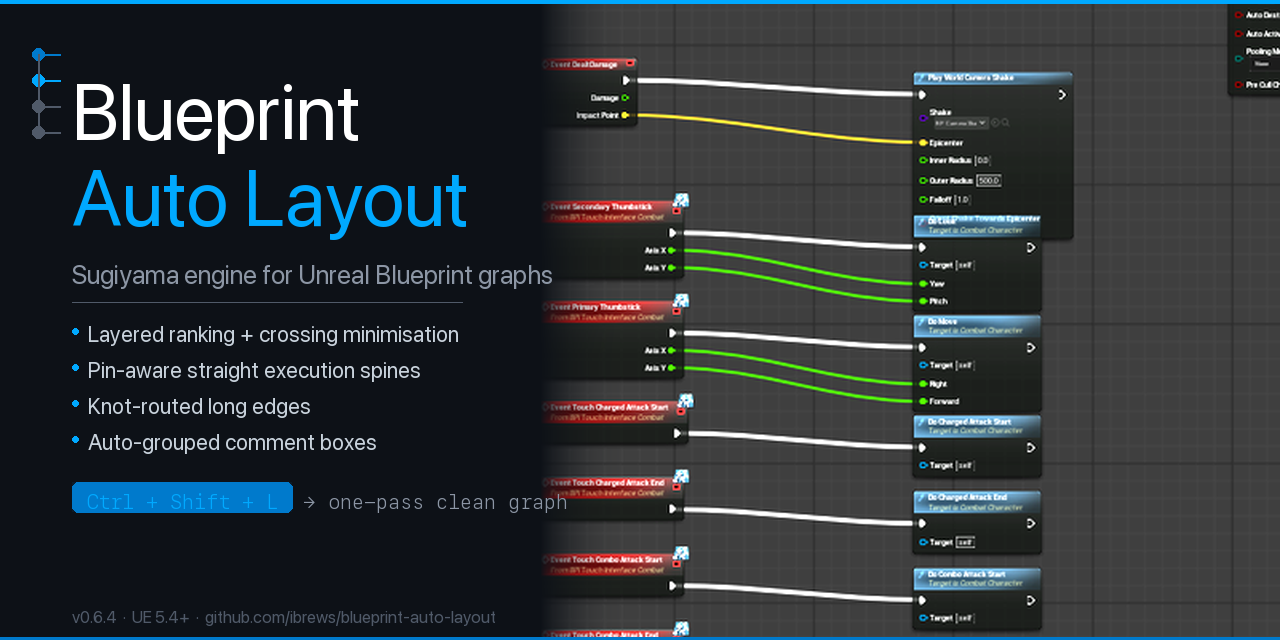
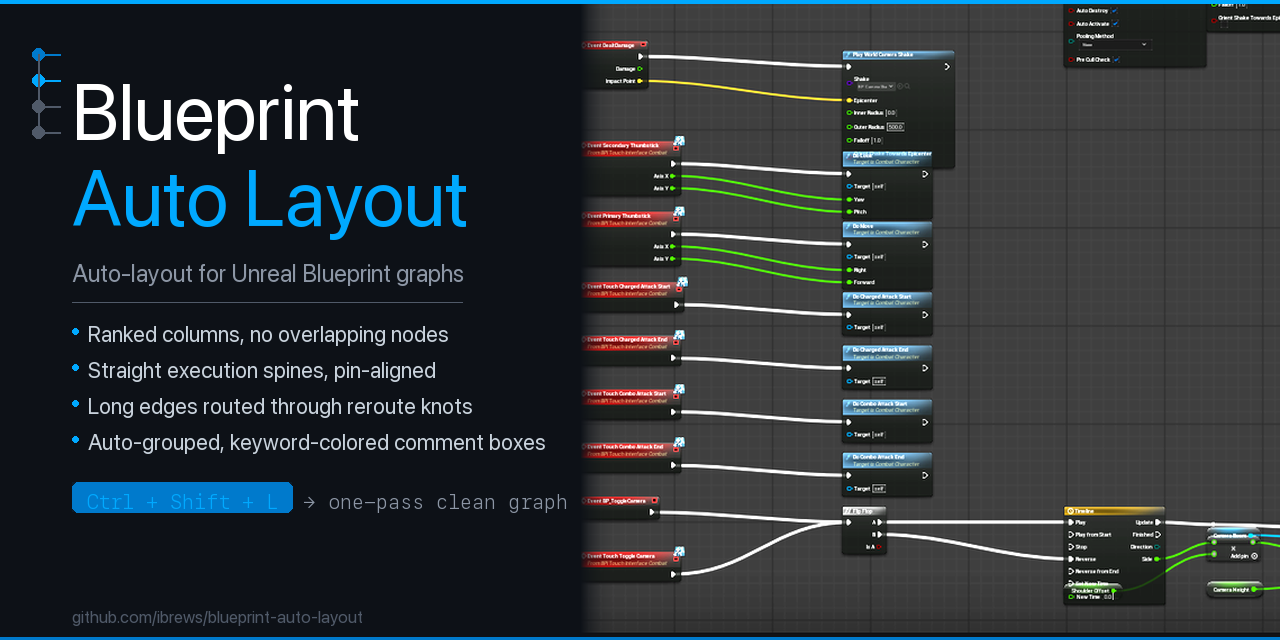
chore: update social card — fix crop, gradient, remove version

diff --git a/make_social_card.py b/make_social_card.py
@@ -43,27 +43,29 @@ after = src.crop((after_x + 40, 168, src_w - 8, src_h - 8))
 after = ImageEnhance.Brightness(after).enhance(1.5)
 after = ImageEnhance.Contrast(after).enhance(1.15)
 
-# Zoom in 1.9× on the densest node cluster (left ~55% width, lower 80% height)
+# crop_start=0 so the red event nodes at the left edge of "after" are included.
+# SEAM pushed to 580 so text can't reach the photo.
+# Short 40px fade so the red nodes emerge quickly past the seam.
 aw, ah = after.size
-focus = after.crop((0, int(ah * 0.12), int(aw * 0.58), ah))
+focus = after.crop((0, int(ah * 0.12), int(aw * 0.78), ah))
 
-# Scale the focus region to fill the right 740px × 640px panel
-panel_w, panel_h = 740, H
+SEAM    = 580               # solid dark covers 0–580; photo starts here
+panel_w = W - SEAM          # 700px
+panel_h = H
 scale = max(panel_w / focus.width, panel_h / focus.height)
 nw, nh = int(focus.width * scale), int(focus.height * scale)
 focus_r = focus.resize((nw, nh), Image.LANCZOS)
 after_crop = focus_r.crop((0, 0, panel_w, panel_h))
 
-card.paste(after_crop, (W - panel_w, 0))
+card.paste(after_crop, (SEAM, 0))
 
-# ── gradient vignette: short blend at the seam ───────────────────────────────
-SEAM = W - panel_w          # x=540
-FADE = 90                   # narrow fade width
+# ── gradient vignette: short 40px fade — red nodes clear it in ~35px ─────────
+FADE = 40
 grad = Image.new("RGBA", (FADE, H), (0, 0, 0, 0))
 gdraw = ImageDraw.Draw(grad)
 for x in range(FADE):
     t = 1.0 - (x / FADE)
-    alpha = int(255 * (t ** 2.2))   # sharper fade
+    alpha = int(255 * (t ** 2.5))   # steep fall-off: nearly clear by 25px
     r, g, b = BG
     gdraw.line([(x, 0), (x, H)], fill=(r, g, b, alpha))
 
@@ -94,7 +96,7 @@ LEFT = 72
 # Plugin name — big two-line treatment
 f_title_big  = load_font(FONT, 78)
 f_title_sub  = load_font(FONT, 78)
-f_tag        = load_font(FONT, 26)
+f_tag        = load_font(FONT, 24)
 f_feature    = load_font(FONT, 22)
 f_mono       = load_font(MONO, 20)
 f_version    = load_font(MONO, 18)
@@ -105,17 +107,17 @@ draw.text((LEFT, 64), "Blueprint", font=f_title_big, fill=WHITE)
 draw.text((LEFT, 150), "Auto Layout", font=f_title_sub, fill=ACCENT2)
 
 # Tagline
-draw.text((LEFT, 258), "Sugiyama engine for Unreal Blueprint graphs", font=f_tag, fill=GRAY)
+draw.text((LEFT, 258), "Auto-layout for Unreal Blueprint graphs", font=f_tag, fill=GRAY)
 
 # Separator line
 draw.line([(LEFT, 302), (LEFT + 390, 302)], fill=DIM, width=1)
 
 # Feature bullets
 features = [
-    ("Layered ranking + crossing minimisation",),
-    ("Pin-aware straight execution spines",),
-    ("Knot-routed long edges",),
-    ("Auto-grouped comment boxes",),
+    ("Ranked columns, no overlapping nodes",),
+    ("Straight execution spines, pin-aligned",),
+    ("Long edges routed through reroute knots",),
+    ("Auto-grouped, keyword-colored comment boxes",),
 ]
 fy = 320
 for (feat,) in features:
@@ -153,7 +155,7 @@ draw.text((arrow_x, badge_y + 7), "→ one-pass clean graph", font=f_mono, fill=
 
 # version tag bottom-left
 f_ver = load_font(FONT, 17)
-draw.text((LEFT, H - 34), "v0.6.4  ·  UE 5.4+  ·  github.com/ibrews/blueprint-auto-layout",
+draw.text((LEFT, H - 34), "github.com/ibrews/blueprint-auto-layout",
           font=f_ver, fill=DIM)
 
 # ── bottom accent bar ──────────────────────────────────────────────────────────
